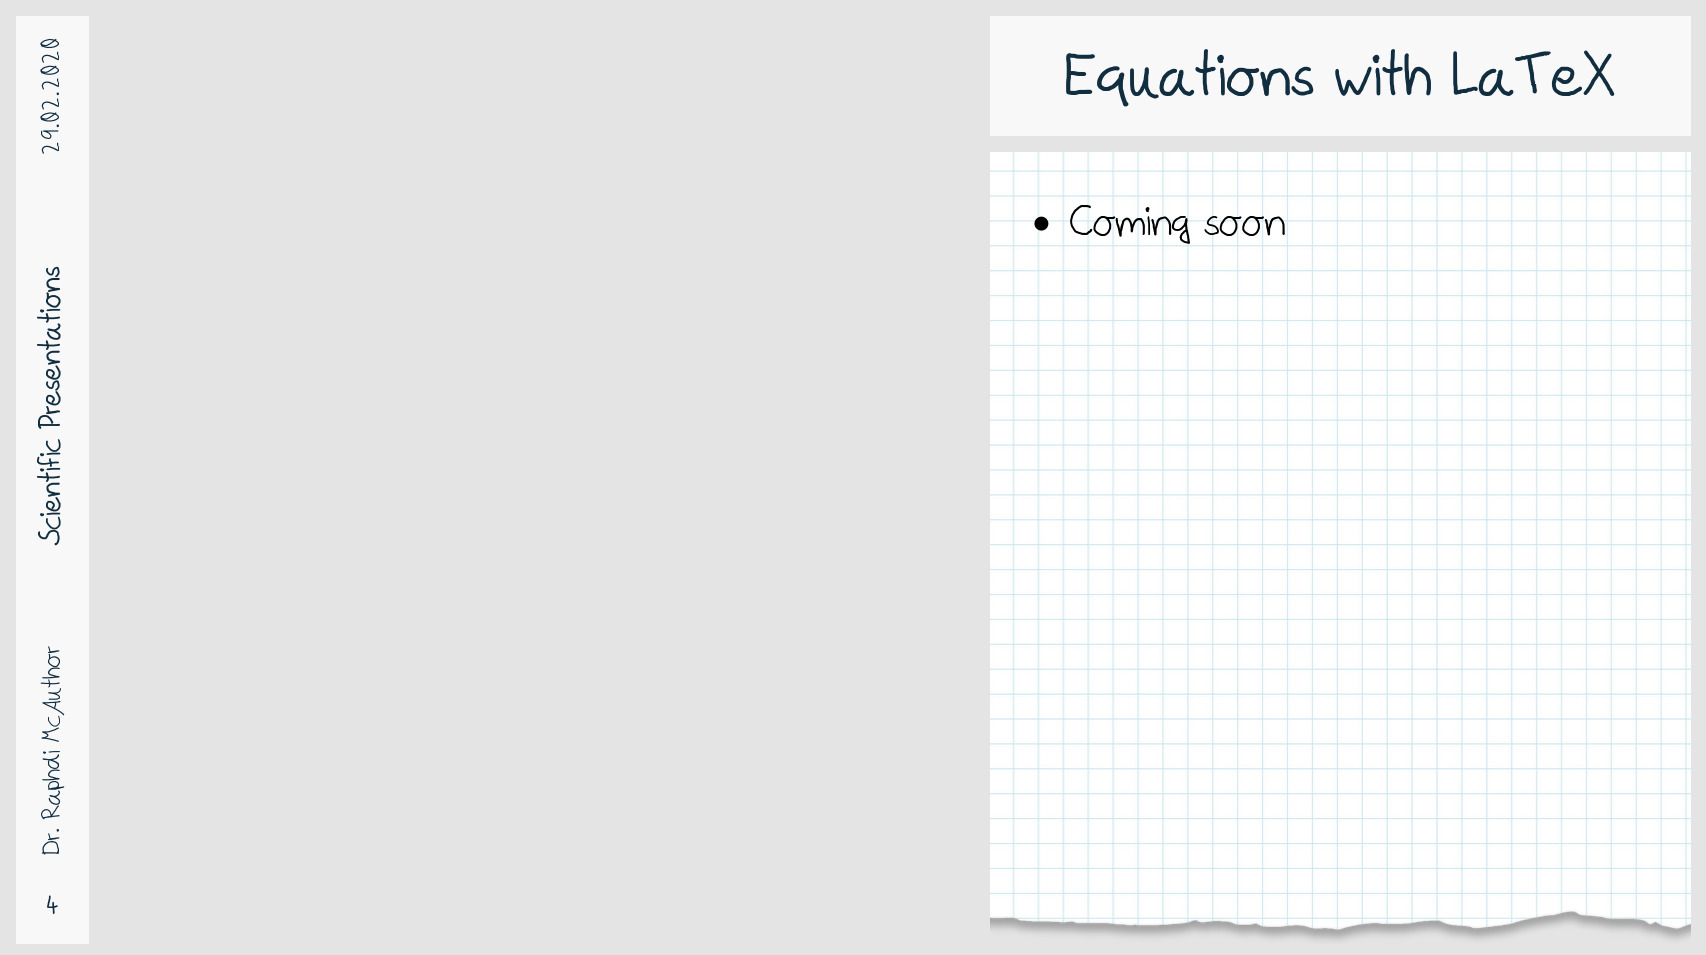
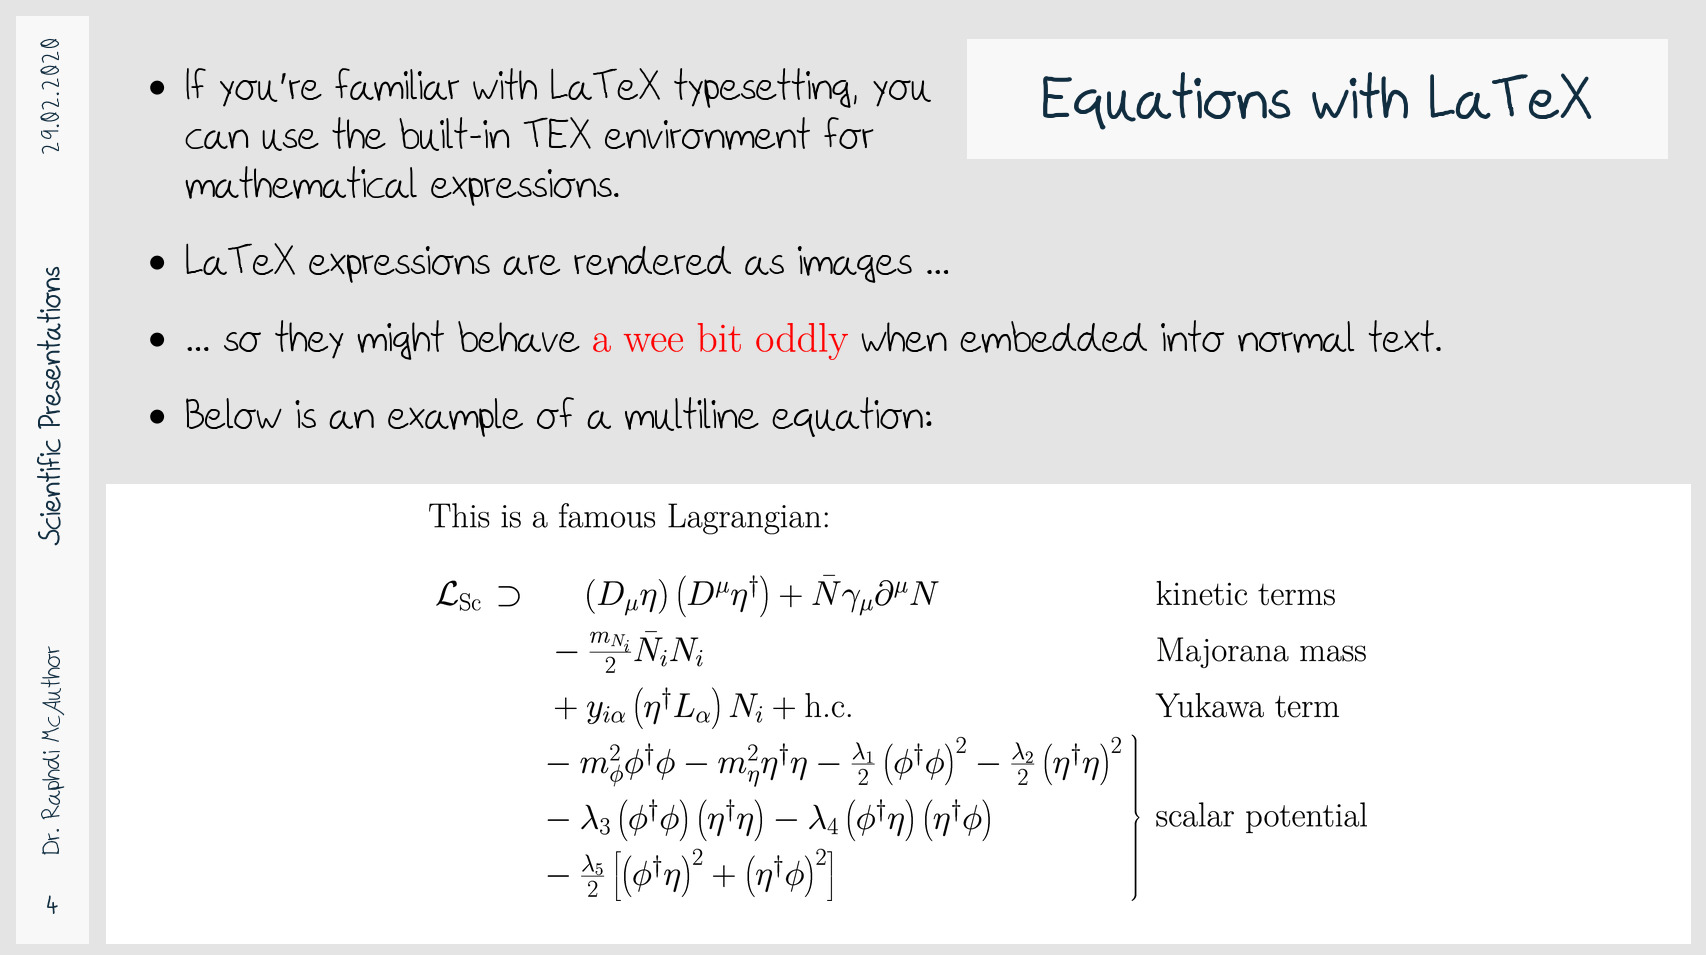
Implemented LaTeX interpreter.

diff --git a/tutorial/parse/output.html b/tutorial/parse/output.html
@@ -79,7 +79,7 @@
         <div class="cell BOXTITLE" style=" visibility: visible; width: 805.6875px;">
             The title of the first slide
         </div>
-        <div class="cell T00 BOX2" style=" background-image:  url(../pictures/torngrid_01.png);  background-size:  cover;   background-position:  bottom; visibility: visible; width: 805.6875px;">
+        <div class="cell T00 BOX2" style="  background-size:  cover; background-image:  url(../pictures/torngrid_01.png);   background-position:  bottom; visibility: visible; width: 805.6875px;">
                             <ul class="ultrawide large" style="margin: 30px 25px;">
         <li>The contents go into boxes like this one.</li>
         <li>The size of the boxes are adjusted to the length of the title.</li>
@@ -153,7 +153,6 @@
 
     <div class="frame">
 
-
         <div class="cell FOOTER" {FOOTER style}>
             <span class="footer">
                 <span class="author">Dr. Raphdi McAuthor</span>
@@ -163,19 +162,40 @@
             <span class="page">4</span>
         </div>
 
-        <div class="cell T00 BOX1" style=" width: calc(var(--totalwidth) - 700.78125px - var(--footerwidth) - 8 * var(--boxmargin));">
-                        
-        </div>
+        <div class="cell T01 BOX1" style=" visibility: visible;">
+            <div class="cell BOXTITLE" style=" visibility: visible; width: 700.78125px;">Equations with LaTeX</div>
+            <ul class="wide large" style="margin: 30px 25px;">
+        <li>
+            If you're familiar with LaTeX typesetting, you can use the
+            built-in TEX environment for mathematical expressions.
+        </li>
+        <li>
+            LaTeX expressions are rendered as images ...
+        </li>
+        <li>
+            
+            ... so they might behave
+            
+                <img src="/home/nechnif/projects/neftox/tutorial/parse/04-BOX1-00.png" style="width:255.0px; margin-bottom: -8.94px;"/>
 
-        <div class="cell BOXTITLE" style=" visibility: visible; width: 700.78125px;">
-            Equations with LaTeX
-        </div>
-        <div class="cell T00 BOX2" style=" background-image:  url(../pictures/torngrid_01.png);  background-size:  cover;   background-position:  bottom; visibility: visible; width: 700.78125px;">
-                            <ul class="ultrawide large" style="margin: 30px 25px;">
-        <li>Coming soon</li>
+            
+            when embedded into normal text.
+        </li>
+        <li>
+            Below is an example of a multiline equation:
+        </li>
     </ul>
         </div>
 
+        <div class="cell T01 BOX2" style=" background-color:  white; visibility: visible;">
+                <p style="text-align: center;">
+    
+    
+        <img src="/home/nechnif/projects/neftox/tutorial/parse/04-BOX2-00.png" style="width:938.75px; "/>
+
+    
+    </p>
+        </div>
 
     </div>
 
@@ -206,7 +226,7 @@
             <span class="page">5</span>
         </div>
 
-        <div class="cell T00 BOX1" style=" background-image:  url(../pictures/torngrid_01.png);  background-size:  cover;   background-position:  bottom; visibility: visible; width: calc(var(--totalwidth) - 731.296875px - var(--footerwidth) - 8 * var(--boxmargin));">
+        <div class="cell T00 BOX1" style="  background-size:  cover; background-image:  url(../pictures/torngrid_01.png);   background-position:  bottom; visibility: visible; width: calc(var(--totalwidth) - 731.296875px - var(--footerwidth) - 8 * var(--boxmargin));">
                             <ul class="ultrawide large" style="margin: 30px 25px;">
         <li>
             Slides can be duplicated - called "subframes".
@@ -255,7 +275,7 @@
             <span class="page">5</span>
         </div>
 
-        <div class="cell T00 BOX1" style=" background-image:  url(../pictures/torngrid_01.png);  background-size:  cover;   background-position:  bottom; visibility: visible; width: calc(var(--totalwidth) - 731.296875px - var(--footerwidth) - 8 * var(--boxmargin)); width: calc(var(--totalwidth) - 731.296875px - var(--footerwidth) - 8 * var(--boxmargin));">
+        <div class="cell T00 BOX1" style="  background-size:  cover; background-image:  url(../pictures/torngrid_01.png);   background-position:  bottom; visibility: visible; width: calc(var(--totalwidth) - 731.296875px - var(--footerwidth) - 8 * var(--boxmargin)); width: calc(var(--totalwidth) - 731.296875px - var(--footerwidth) - 8 * var(--boxmargin));">
                             <ul class="ultrawide large" style="margin: 30px 25px;">
         <li>
             Slides can be duplicated - called "subframes".
@@ -487,7 +507,7 @@
         <div class="cell BOXTITLE" style=" background-color:  white;  color:  black; visibility: visible; width: 563.328125px;">
                 Color palettes
         </div>
-        <div class="cell T00 BOX2" style=" background-image:  url(../pictures/torngrid_01.png);  background-size:  cover;   background-position:  bottom; visibility: visible; width: 563.328125px;">
+        <div class="cell T00 BOX2" style="  background-size:  cover; background-image:  url(../pictures/torngrid_01.png);   background-position:  bottom; visibility: visible; width: 563.328125px;">
                             <ul class="large ultrawide" style="margin-top: 30px;">
         <li>Set a color palette with the PALETTE key in the presentation meta info.</li>
         <li>Palettes are stored in the palettes.css file.</li>

diff --git a/tutorial/input.html b/tutorial/input.html
@@ -130,20 +130,66 @@ BOX2--
 
 
 <!-- FRAME ------------------------------------------------------------>
+TEMPLATE = 01
 BOXTITLE--
     Equations with LaTeX
 --BOXTITLE
 
-BOX1--
 
+BOX1--
+    <ul class="wide large" style="margin: 30px 25px;">
+        <li>
+            If you're familiar with LaTeX typesetting, you can use the
+            built-in TEX environment for mathematical expressions.
+        </li>
+        <li>
+            LaTeX expressions are rendered as images ...
+        </li>
+        <li>
+            <!--
+                You can enter the LaTeX world with the TEX tags,
+                like in the example below. Everything between those tags
+                will be interpreted as a LaTeX expression, and will throw
+                errors if not in line with the LaTeX syntax.
+            -->
+            ... so they might behave
+            TEX--
+                {\fontsize{30}{32}\selectfont
+                \textcolor{red}{a wee bit oddly}}
+            --TEX
+            when embedded into normal text.
+        </li>
+        <li>
+            Below is an example of a multiline equation:
+        </li>
+    </ul>
 --BOX1
 
 BOX2--
-    style="background-image: url(../pictures/torngrid_01.png);  background-position: bottom; background-size: cover;"
-    <ul class="ultrawide large" style="margin: 30px 25px;">
-        <li>Coming soon</li>
-    </ul>
+    style="background-color: white;"
+    <p style="text-align: center;">
+    <!-- Here is another LaTeX example: -->
+    TEX--
+        \fontsize{25}{27}\selectfont
+        This is a famous Lagrangian:\\
+        \renewcommand{\arraystretch}{1.5}
+        \[
+        \begin{array}{ccll}
+            \mathcal{L}_{\text{Sc}} & \supset & \left.\:\:\:\:\:\:\left(D_{\mu}\eta\right)\left(D^{\mu}\eta^{\dagger}\right)+\bar{N}\gamma_{\mu}\partial^{\mu}N\right. & \text{kinetic terms}\\
+             &  & \left.\:\:-\:\frac{m_{N_{i}}}{2}\bar{N}_{i}N_{i}\right. & \text{Majorana mass}\\
+             &  & \left.\:\:+\:y_{i\alpha}\left(\eta^{\dagger}L_{\alpha}\right)N_{i}+\text{h.c.}\right. & \text{Yukawa term}\\
+             &  & \left.
+             \begin{array}{l}
+                -\:m_{\phi}^{2}\phi^{\dagger}\phi-m_{\eta}^{2}\eta^{\dagger}\eta-\frac{\lambda_{1}}{2}\left(\phi^{\dagger}\phi\right)^{2}-\frac{\lambda_{2}}{2}\left(\eta^{\dagger}\eta\right)^{2}\\
+                -\:\lambda_{3}\left(\phi^{\dagger}\phi\right)\left(\eta^{\dagger}\eta\right)-\lambda_{4}\left(\phi^{\dagger}\eta\right)\left(\eta^{\dagger}\phi\right)\\
+                -\:\frac{\lambda_{5}}{2}\left[\left(\phi^{\dagger}\eta\right)^{2}+\left(\eta^{\dagger}\phi\right)^{2}\right]
+            \end{array}\right\}  & \text{scalar potential}
+        \end{array}
+        \]
+    --TEX
+    </p>
 --BOX2
+
 
 <!-- FRAME ------------------------------------------------------------>
 BOXTITLE--

diff --git a/neftox.py b/neftox.py
@@ -6,7 +6,7 @@ import re
 import subprocess
 import copy
 import matplotlib.font_manager
-from PIL import ImageFont
+from PIL import Image, ImageFont
 
 from selenium import webdriver
 from selenium.webdriver.firefox.options import Options
@@ -19,12 +19,18 @@ import img2pdf
 global inputdir, parsedir
 
 def MatchBetween(start, stop, string, len=1):
-
+    ## Grab the content between two custom tags.
     pattern = '(?<={})\s*(.*?)\s*(?={})'.format(start, stop)
     matches = re.findall(pattern, string, flags=re.S|re.M)
 
-    result = (matches if matches else [(None,)*len])
+    result = (matches if matches else ([] if len==None else[(None,)*len]))
     return result
+
+def DeleteBracket(start, stop, string, replace=''):
+    ## Deletes or replaces custom tags from a string.
+    string = string.replace(start, replace)
+    string = string.replace(stop, replace)
+    return string
 
 #-----------------------------------------------------------------------
 
@@ -444,7 +450,6 @@ class Box(object):
     re_style = '^\s*style *= *\"(.*)\" *\n'
     regex_li  = '\s*<li .*>((.|\s)*)<\/li>'
 
-
     def __init__(self, rawbox, template, framenumber):
         self.name     = rawbox[0]
         self.style    = ''
@@ -480,17 +485,30 @@ class Box(object):
 
     def ParseContent(self, rawcontent):
 
-        if rawcontent:
-            style_ = re.search(Box.re_style.format(self.name), rawcontent)
-            if style_:
-                self.SetStyle([style_.group(1)])
-                content = rawcontent.replace(style_.group(0), '')
-            else:
-                content = rawcontent
+        ## Check for ... well, content:
+        if not rawcontent:
+            self.content = ''
+            return
         else:
-            content = None
+            content = rawcontent
 
-        self.content = str(content or '')
+        ## Check for styles:
+        style_ = re.search(Box.re_style.format(self.name), rawcontent)
+        if style_:
+            self.SetStyle([style_.group(1)])
+            content = rawcontent.replace(style_.group(0), '')
+
+        ## Check for equations::
+        eqcount = 0
+        equs_ = MatchBetween(*Equation.re_brackets, content, None)
+        equs = []
+        for e in equs_:
+            equ = Equation(e, self.frame, self.name, eqcount)
+            content = content.replace(e, equ.HTML)
+            eqcount += 1
+
+        content = DeleteBracket(*Equation.re_brackets, content)
+        self.content = content
 
     def UpdateContent(self, newcontent, rev=False):
 
@@ -514,6 +532,80 @@ class Box(object):
         if self.style or self.content:
             self.SetStyle([('visibility', 'visible')])
 
+
+class Equation(object):
+
+    re_brackets = ('TEX--', '--TEX')
+
+    def __init__(self, rawtex, framenumber, boxname, count):
+
+        self.rawtex = rawtex
+
+        self.name   = '{:02d}-{}-{:02d}'.format(framenumber, boxname, count)
+        self.eqpath = '{}{}.png'.format(parsedir, self.name)
+
+        self.Eqtopng()
+        self.EqtoHTML()
+
+    def Eqtopng(self):
+        ## Converts latex expression to png image.
+
+        from sympy import preview
+
+        # preamble = (
+        #     # '\\documentclass[35pt]{article}\n'
+        #     '\\documentclass[tikz]{standalone}\n'
+        #     # '\\usepackage[fontsize=10.8pt]{fontsize}'
+        #     '\\usepackage{units}'
+        #     '\\usepackage{newpxtext}'
+        #     '\\usepackage{newpxmath}'
+        #     '\\usepackage{xcolor}'
+        #     '\\begin{document}'
+        # )
+
+        packages = (
+            'units',
+            'lmodern',
+            # 'newpxtext', 'newpxmath',
+            'xcolor',
+        )
+        ## Scale the image by a factor to get decent resolution:
+        scale = 4
+        dvioptions = [
+            '-D {}'.format(scale*100),
+            '-bg', 'rgb 20 20 20',
+            '-bd', '100', '--gamma', '10'
+        ]
+        preview(
+            self.rawtex, viewer='file', filename=self.eqpath,
+            dvioptions=dvioptions, euler=False,
+            packages=packages,
+            # preamble=preamble,
+        )
+        self.dims = np.array(Image.open(self.eqpath).size)/scale
+
+    def EqtoHTML(self):
+
+        re_subchars = r'\b(?<![\\|{])\w*[gjpqy]\w*\b'
+
+        subgreeks = [
+            'beta ', 'gamma ', 'zeta ', 'mu ', 'xi ', 'rho ', 'varrho ',
+            'varsigma ', 'phi ', 'varphi ', 'chi ', 'psi ',
+        ]
+
+        offset = ''
+        ## Check if expression is one-liner:
+        if self.dims[1] < 100:
+            ## Check if expression contains regular words with
+            ## descendent characters, or descendent greek symbols:
+            test1 = re.search(re_subchars, self.rawtex)
+            test2 = any('\\{}'.format(char) in self.rawtex for char in subgreeks)
+            if test1 or test2:
+                offset = 'margin-bottom: -{}px;'.format(self.dims[1]*0.24)
+
+        self.HTML = '<img src="{}" style="width:{}px; {}"/>\n'.format(
+            self.eqpath, self.dims[0], offset,
+        )
 
 
 #--- Parse arguments ---------------------------------------------------

diff --git a/README.md b/README.md
@@ -13,6 +13,8 @@ This tool is designed to combine the best from two worlds: The freedom and flexi
 
 ### Prerequisites
 
+The following Python3 packages are required for neftox to work:
+
 ```
 numpy
 os
@@ -26,6 +28,13 @@ selenium
 img2pdf
 ```
 
+If you want to use LaTeX expressions in your presentation, you also need
+
+```
+sympy
+```
+
+as well as a working TeX Live installation. 
 
 ### Usage
 
